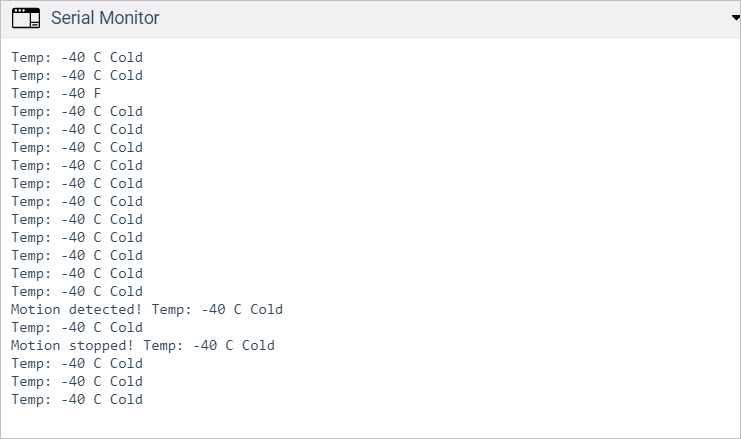
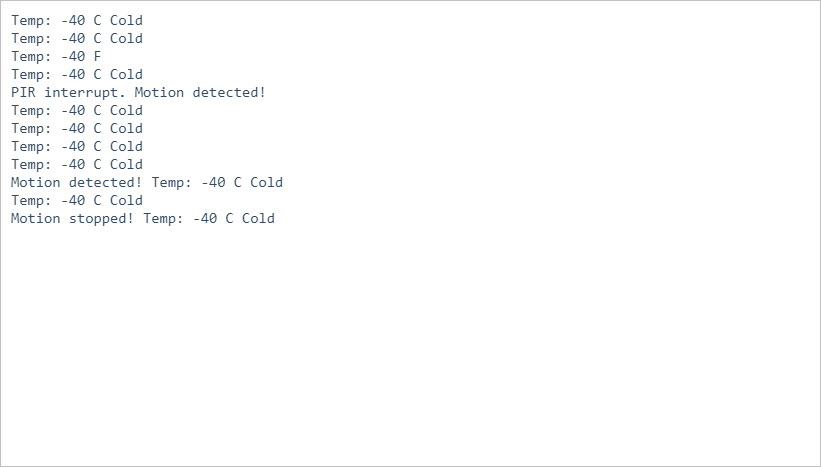
Resubmit
This is the resubmit content for task 1.3 on Ontracks

diff --git a/Module1/Task1.3/Code.cpp b/Module1/Task1.3/Code.cpp
@@ -10,9 +10,10 @@ int btn_pin = 2;
 int tempSensor = A0;
 
 int led2 = 12;
-int motionSensor = 3;
+int motionSensor = 7;
 int state = LOW;
 int val = 0;
+int btn_pinP = 3;
 
 
 void setup()
@@ -21,18 +22,18 @@ void setup()
   pinMode(tempSensor, INPUT);
   pinMode(led1, OUTPUT);
   
+  pinMode(btn_pinP, INPUT);
   pinMode(motionSensor, INPUT);
   pinMode(led2, OUTPUT);
   
   Serial.begin(9600);
   
+  attachInterrupt(digitalPinToInterrupt(btn_pinP), Ptoggle, FALLING);
   attachInterrupt(digitalPinToInterrupt(btn_pin), toggle, FALLING);
 }
 
 void loop()
 {
-  
-  
   lowTemp = 20;
   highTemp = 35;
   celsius = map(((analogRead(tempSensor) - 20) * 3.04), 0, 1023, -40, 125);
@@ -62,7 +63,7 @@ void loop()
   val = digitalRead(motionSensor);
   if (val == HIGH) {           
     digitalWrite(led2, HIGH);   
-    delay(50);                
+    delay(1000);                
     
     if (state == LOW) {
       Serial.print("Motion detected! "); 
@@ -71,7 +72,7 @@ void loop()
   } 
   else {
       digitalWrite(led2, LOW); 
-      delay(50);             
+      delay(1000);             
       
       if (state == HIGH){
         Serial.print("Motion stopped! ");
@@ -102,4 +103,10 @@ void toggle()
   Serial.print("Temp: ");
   Serial.print(fahrenheit);
   Serial.println(" F");
+}
+
+void Ptoggle()
+{
+  state == HIGH;
+  Serial.println("PIR interrupt. Motion detected!");
 }
